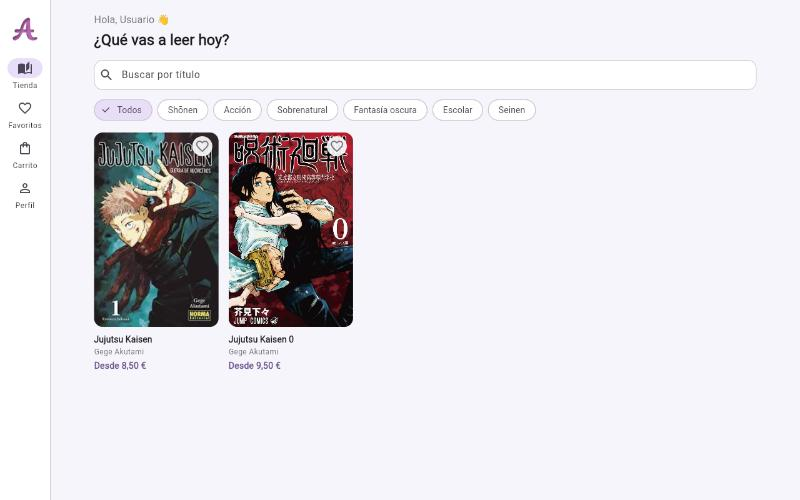
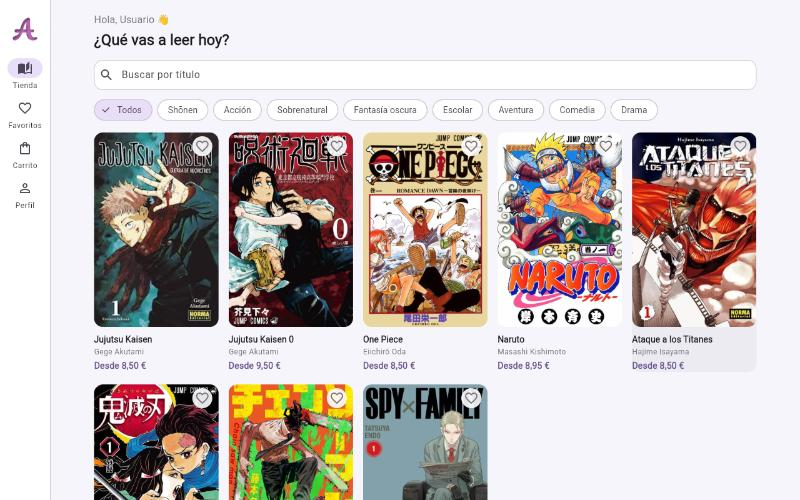
Catálogo demo con 8 series
Añade One Piece, Naruto, Ataque a los Titanes, Guardianes de la Noche,
Chainsaw Man y Spy×Family con 4 volúmenes cada uno (portadas reales,
precio y stock variados), personajes y nuevas categorías (Aventura,
Comedia, Drama). Capturas y README actualizados; placeholder de portada
visible mientras carga en la app Flutter.

diff --git a/develop-mobile/animangav5frontend/lib/ui/widgets/common.dart b/develop-mobile/animangav5frontend/lib/ui/widgets/common.dart
@@ -17,7 +17,7 @@ class CoverImage extends StatelessWidget {
     final placeholder = Container(
       width: width,
       height: height,
-      color: Theme.of(context).colorScheme.surfaceContainerHighest,
+      color: const Color(0xFFEDE7F6),
       alignment: Alignment.center,
       child: Icon(Icons.menu_book_rounded, color: Theme.of(context).colorScheme.outline),
     );

diff --git a/README.md b/README.md
@@ -16,9 +16,9 @@ El proyecto se compone de tres aplicaciones que comparten una API REST:
 |---|---|
 | ![Catálogo](docs/screenshots/store-catalog.jpg) | ![Ficha](docs/screenshots/store-manga.jpg) |
 
-| Login del panel | Volúmenes de un manga |
+| Catálogo en el panel | Volúmenes de un manga |
 |---|---|
-| ![Login](docs/screenshots/admin-login.jpg) | ![Detalle](docs/screenshots/admin-manga.jpg) |
+| ![Mangas](docs/screenshots/admin-mangas.jpg) | ![Detalle](docs/screenshots/admin-manga.jpg) |
 
 ## Funcionalidades
 
@@ -44,6 +44,12 @@ El proyecto se compone de tres aplicaciones que comparten una API REST:
 - Autenticación con JWT y refresh token.
 - Autorización por rol (`ADMIN` / `USER`) a nivel de rutas y de servicio.
 - Documentación OpenAPI en `/swagger-ui.html`.
+
+## Datos de demostración
+
+La API arranca con un catálogo de ejemplo: **8 series** (Jujutsu Kaisen, Jujutsu Kaisen 0, One Piece, Naruto, Ataque a los Titanes, Guardianes de la Noche, Chainsaw Man y Spy×Family), 33 volúmenes con precio y stock (hay alguno agotado y otros con pocas unidades), 14 personajes, 8 categorías, 3 usuarios y un par de compras. Los datos están en `develop-api/src/main/resources/import.sql` y las portadas en `resources/seed/covers`.
+
+> Las portadas y personajes pertenecen a sus autores y editoriales. Se usan solo con fines demostrativos en un proyecto académico sin ánimo de lucro. Los ISBN son ficticios.
 
 ## Seguridad
 
